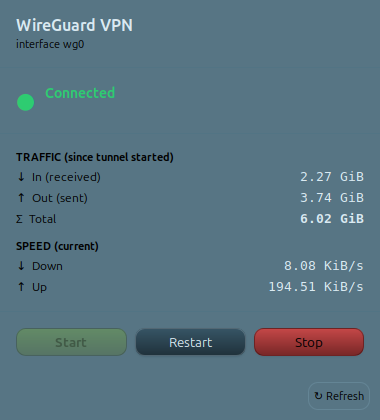
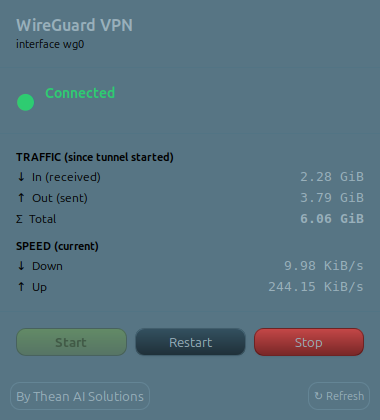
Add Thean AI Solutions credit link (app footer + README)

diff --git a/wg-gtk-client.py b/wg-gtk-client.py
@@ -219,6 +219,10 @@ class VPNWindow(Gtk.Window):
         # footer / refresh
         foot = Gtk.Box(orientation=Gtk.Orientation.HORIZONTAL, spacing=6)
         foot.set_border_width(10)
+        credit = Gtk.LinkButton(uri="https://www.thern.io",
+                                label="By Thean AI Solutions")
+        credit.set_relief(Gtk.ReliefStyle.NONE)
+        foot.pack_start(credit, False, False, 0)
         self.refresh_btn = Gtk.Button(label="↻ Refresh")
         self.refresh_btn.set_relief(Gtk.ReliefStyle.NONE)
         self.refresh_btn.get_style_context().add_class("subtle")

diff --git a/README.md b/README.md
@@ -100,3 +100,7 @@ spurious spikes.
 ## License
 
 [MIT](LICENSE) © 2026 Jonaz Thern
+
+---
+
+By [Thean AI Solutions](https://www.thern.io)